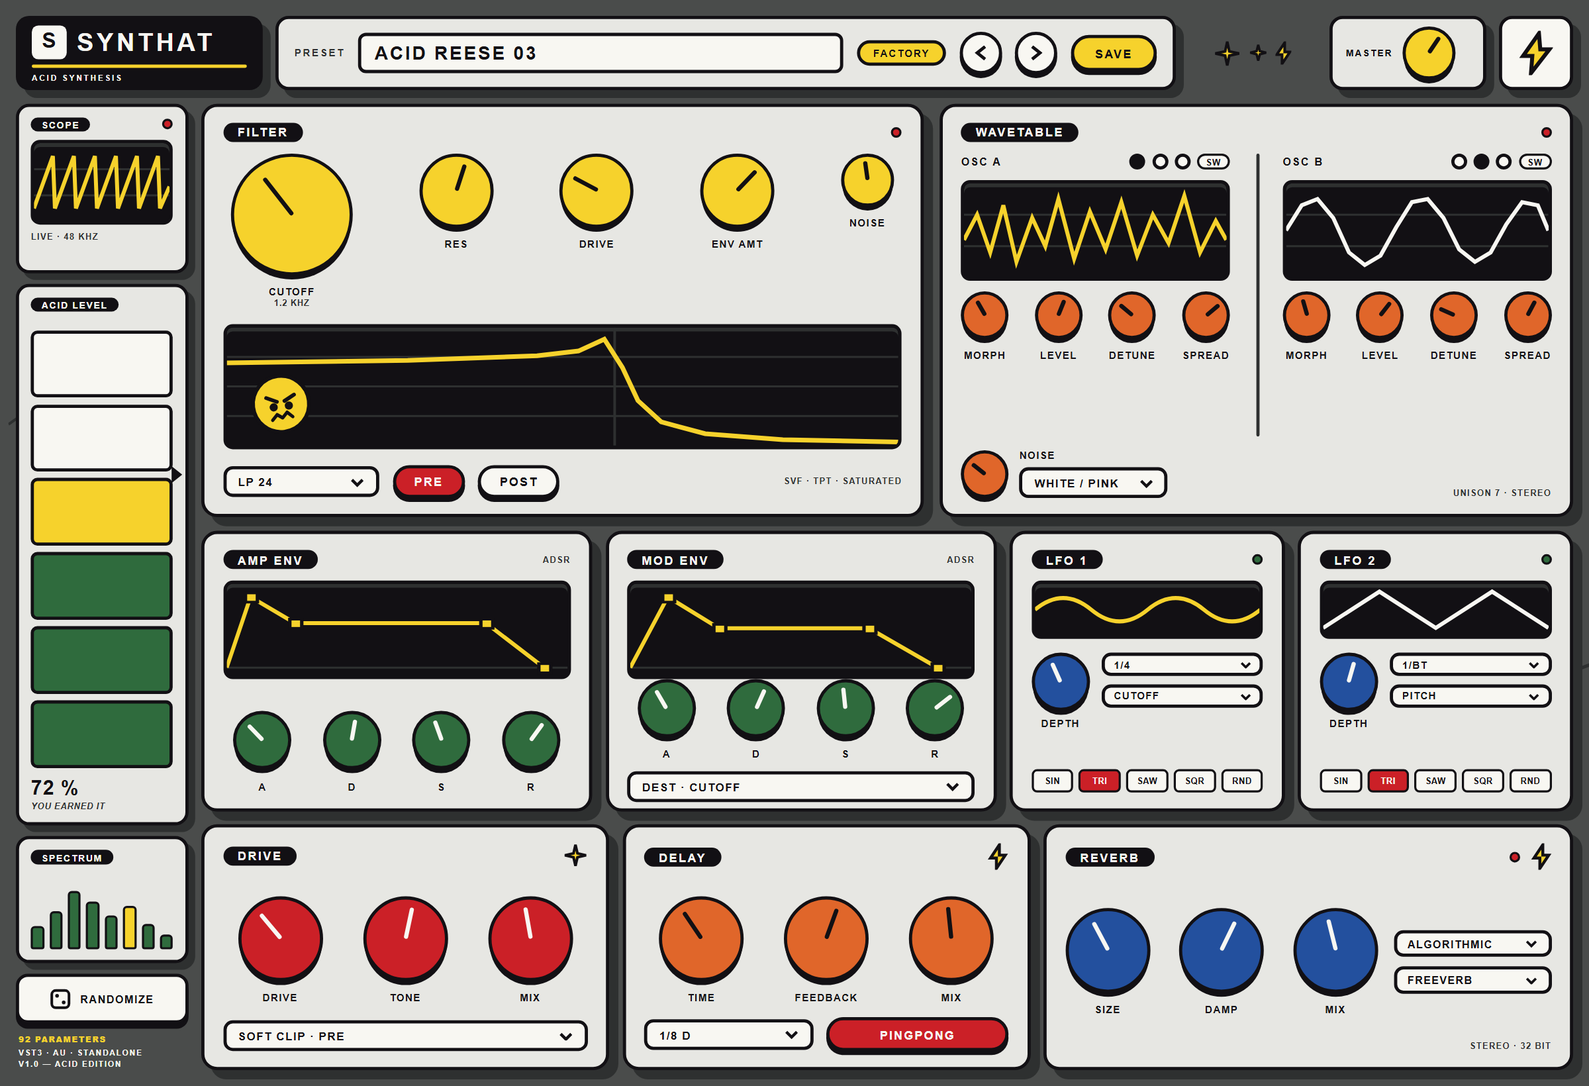
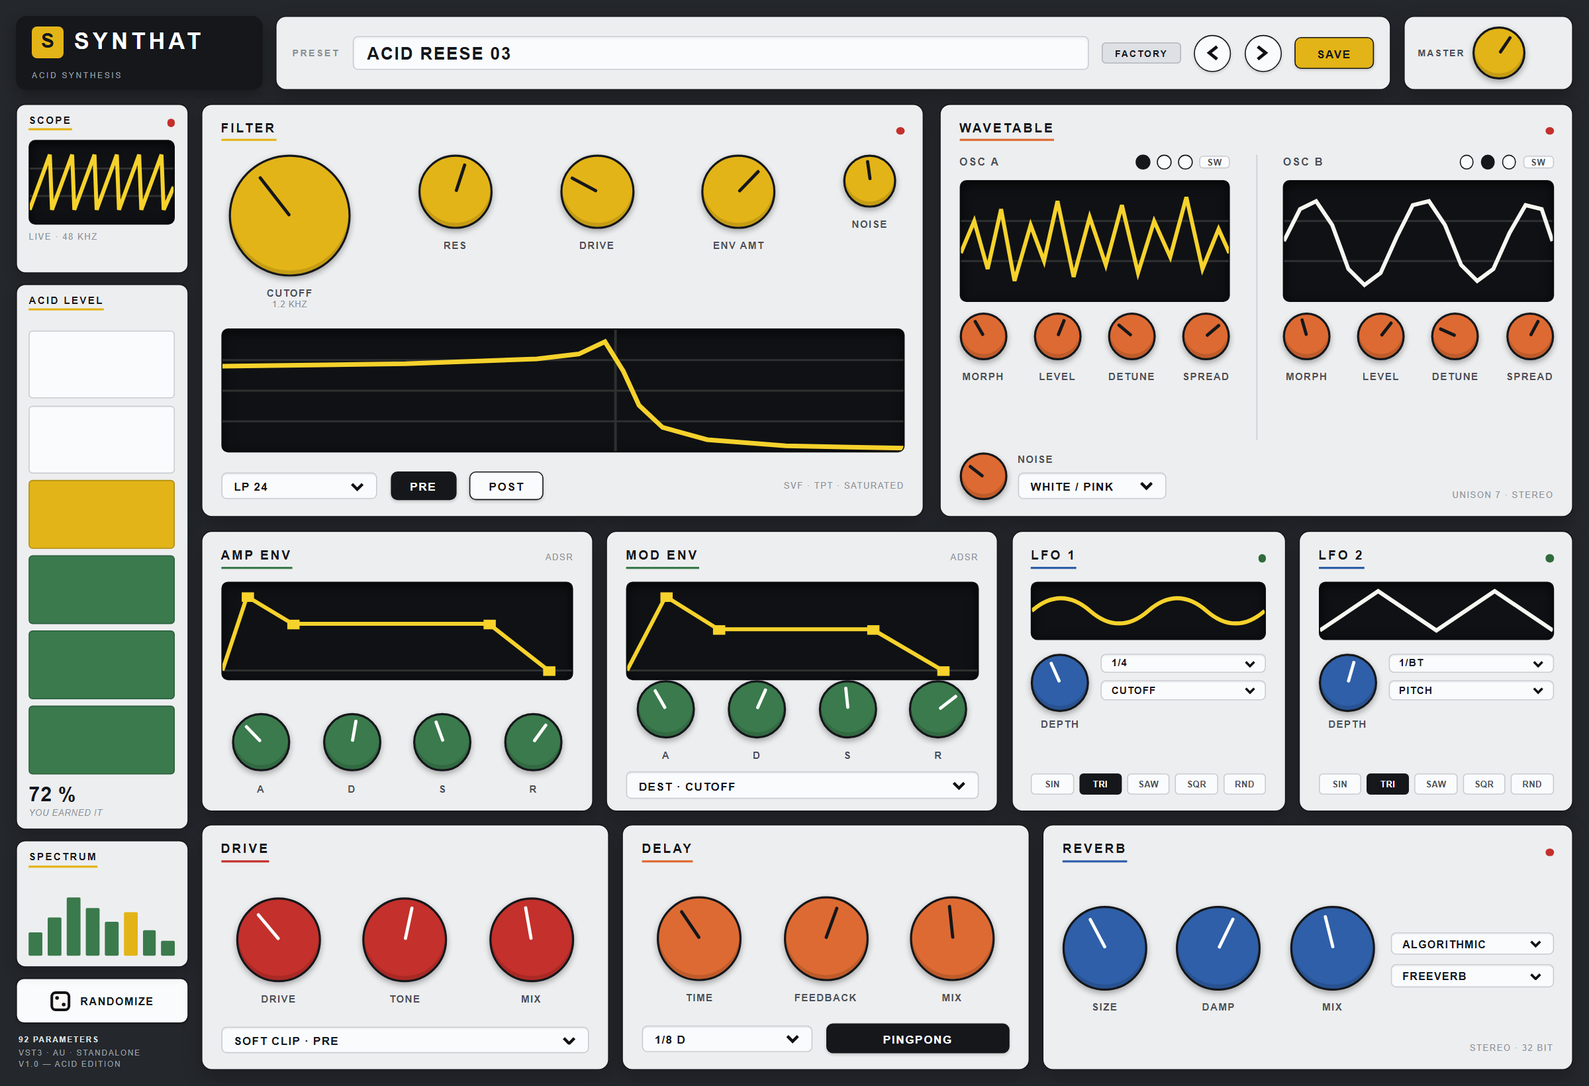
style: registro professionale al posto del cartoon
Contorni 1.5px, ombre morbide, fondo finestra scuro, titoli con sottolineatura
d'accento invece delle pillole nere, tipografia neutra e manopole con tacca
sottile. Rimossi adesivo, scintille, fulmini, crepe e stelline decorative.

🤖 Generated with Codebuff

Changed region(s): [[0.0, 0.0, 1.0, 1.0], [0.6562, 0.8085, 0.7812, 0.9329], [0.75, 0.9018, 0.7812, 0.9329]]

diff --git a/synthat/index.html b/synthat/index.html
@@ -5,25 +5,28 @@
 <title>SYNTHAT — ACID REESE 03</title>
 <style>
   :root{
-    --ink:#121014;
-    --paper:#F8F7F2;
-    --panel:#E7E7E3;
-    --asfalto:#4A4C4B;
-    --giunto:#2E3030;
-    --giallo:#F6D22C;
-    --rosso:#CB2027;
-    --verde:#2F6B3D;
-    --arancio:#E0662A;
-    --blu:#23509E;
+    --ink:#15171B;
+    --ink2:#4A4F57;
+    --panel:#EDEEEF;
+    --field:#FAFBFC;
+    --line:#C9CCD1;
+    --win:#24272C;
+    --paper:#FFFFFF;
+    --muted:#8B9098;
+    --gold:#E3B417;
+    --orange:#DD6A32;
+    --green:#3A7A4C;
+    --blue:#2E5FA8;
+    --red:#C4302B;
   }
   *{box-sizing:border-box;margin:0;padding:0}
-  html,body{width:1200px;height:820px;overflow:hidden;background:var(--asfalto)}
+  html,body{width:1200px;height:820px;overflow:hidden;background:var(--win)}
   body{
-    font-family:"Arial Narrow","Liberation Sans Narrow","Helvetica Neue",Arial,sans-serif;
-    font-weight:700;text-transform:uppercase;letter-spacing:.07em;
+    font-family:Inter,"Helvetica Neue",Arial,sans-serif;
+    font-weight:600;text-transform:uppercase;letter-spacing:.04em;
     font-size:9px;color:var(--ink);-webkit-font-smoothing:antialiased;
   }
-  .art{position:relative;width:1200px;height:820px;background:var(--asfalto);overflow:hidden}
+  .art{position:relative;width:1200px;height:820px;background:var(--win);overflow:hidden}
 
   /* ---------- struttura ---------- */
   .head{position:absolute;top:12px;left:12px;right:12px;height:56px;display:flex;align-items:stretch;gap:10px}
@@ -36,139 +39,133 @@
   .r3{height:186px;gap:10px}
 
   .panel{
-    background:var(--panel);border:3px solid var(--ink);border-radius:12px;
-    box-shadow:7px 7px 0 var(--giunto);
+    background:var(--panel);border:1.5px solid var(--ink);border-radius:8px;
+    box-shadow:0 5px 14px rgba(0,0,0,.26), inset 0 1px 0 rgba(255,255,255,.55);
     display:flex;flex-direction:column;padding:12px 14px;min-width:0;position:relative;
   }
   .card{
-    background:var(--panel);border:2.5px solid var(--ink);border-radius:10px;
-    box-shadow:5px 5px 0 var(--giunto);
+    background:var(--panel);border:1.5px solid var(--ink);border-radius:7px;
+    box-shadow:0 4px 10px rgba(0,0,0,.22);
     display:flex;flex-direction:column;padding:8px 9px;position:relative;min-height:0;
   }
 
-  .phead{display:flex;align-items:center;justify-content:space-between;gap:8px;margin-bottom:9px;flex:none}
-  .ptitle{background:var(--ink);color:var(--paper);border-radius:999px;padding:3px 11px 2px;font-size:9px;letter-spacing:.14em}
-  .led{width:8px;height:8px;border-radius:50%;background:var(--rosso);border:2px solid var(--ink);flex:none}
-  .note{font-size:6.5px;letter-spacing:.1em;color:var(--giunto)}
+  .phead{display:flex;align-items:center;justify-content:space-between;gap:8px;margin-bottom:10px;flex:none}
+  .ptitle{
+    font-size:9.5px;letter-spacing:.16em;color:var(--ink);
+    padding-bottom:3px;border-bottom:2px solid var(--acc,var(--gold));
+  }
+  .led{width:6px;height:6px;border-radius:50%;background:var(--red);flex:none}
+  .led.off{background:#B9BDC3}
+  .note{font-size:6.5px;letter-spacing:.12em;color:var(--muted);font-weight:500}
 
-  /* ---------- schermi incassati ---------- */
-  .screen{position:relative;background:var(--ink);border:2.5px solid var(--ink);border-radius:7px;
-          box-shadow:inset 0 3px 0 var(--giunto);overflow:hidden;flex:none}
+  /* ---------- colore per sezione ---------- */
+  .zone-orange{--acc:var(--orange)}
+  .zone-green{--acc:var(--green)}
+  .zone-blue{--acc:var(--blue)}
+  .zone-red{--acc:var(--red)}
+
+  /* ---------- schermi ---------- */
+  .screen{position:relative;background:#0F1114;border:1px solid #0A0C0E;border-radius:5px;
+          box-shadow:inset 0 2px 8px rgba(0,0,0,.75);overflow:hidden;flex:none}
   .screen svg{display:block;width:100%;height:100%}
-  .screen svg.sticker{width:50px;height:50px}
 
   /* ---------- manopole ---------- */
-  .knob{position:relative;border-radius:50%;background:var(--giallo);border:3px solid var(--ink);flex:none;
-        box-shadow:0 4px 0 -1px var(--ink)}
-  .notch{position:absolute;left:50%;bottom:50%;width:3px;height:40%;margin-left:-1.5px;background:var(--ink);
-         border-radius:2px;transform-origin:50% 100%;transform:rotate(var(--a,-40deg))}
+  .knob{position:relative;border-radius:50%;background:var(--acc,var(--gold));
+        border:2px solid var(--ink);flex:none;
+        box-shadow:0 2px 5px rgba(0,0,0,.32), inset 0 -3px 0 rgba(0,0,0,.13)}
+  .notch{position:absolute;left:50%;bottom:50%;width:2px;height:42%;margin-left:-1px;background:var(--ink);
+         border-radius:1px;transform-origin:50% 100%;transform:rotate(var(--a,-40deg))}
+  .zone-green .notch,.zone-blue .notch,.zone-red .notch{background:#fff}
   .k92{width:92px;height:92px}.k64{width:64px;height:64px}.k56{width:56px;height:56px}
   .k48{width:48px;height:48px}.k44{width:44px;height:44px}.k40{width:40px;height:40px}
   .k36{width:36px;height:36px}.k32{width:32px;height:32px}
   .knobwrap{display:flex;flex-direction:column;align-items:center;gap:9px}
-  /* colore manopole per sezione */
-  .zone-orange .knob{background:var(--arancio)}
-  .zone-green .knob{background:var(--verde)}
-  .zone-blue .knob{background:var(--blu)}
-  .zone-red .knob{background:var(--rosso)}
-  .zone-green .notch,.zone-blue .notch,.zone-red .notch{background:var(--paper)}
-  .klab{font-size:7.5px;letter-spacing:.1em;text-align:center;line-height:1.1}
-  .kval{font-size:6.5px;letter-spacing:.06em;color:var(--giunto);margin-top:1px}
+  .klab{font-size:7.5px;letter-spacing:.1em;text-align:center;line-height:1.1;color:var(--ink2)}
+  .kval{font-size:6.5px;letter-spacing:.06em;color:var(--muted);margin-top:1px;font-weight:500}
 
   /* ---------- controlli ---------- */
-  .sel{display:flex;align-items:center;justify-content:space-between;gap:8px;background:var(--paper);
-       border:2.5px solid var(--ink);border-radius:7px;padding:5px 9px 4px;font-size:8.5px;letter-spacing:.09em}
+  .sel{display:flex;align-items:center;justify-content:space-between;gap:8px;background:var(--field);
+       border:1px solid var(--line);border-radius:4px;padding:5px 9px 4px;font-size:8.5px;letter-spacing:.08em;
+       box-shadow:inset 0 1px 0 rgba(0,0,0,.05)}
   .sel svg{flex:none}
-  .btn{display:flex;align-items:center;justify-content:center;gap:6px;background:var(--paper);
-       border:2.5px solid var(--ink);border-radius:999px;padding:6px 14px 5px;font-size:9px;
-       letter-spacing:.12em;box-shadow:0 3px 0 var(--ink);font-weight:700}
-  .btn.on{background:var(--rosso);color:var(--paper)}
-  .btn.gold{background:var(--giallo)}
+  .btn{display:flex;align-items:center;justify-content:center;gap:6px;background:var(--field);
+       border:1.5px solid var(--ink);border-radius:5px;padding:6px 14px 5px;font-size:8.5px;
+       letter-spacing:.1em;font-weight:600;box-shadow:0 1px 2px rgba(0,0,0,.16)}
+  .btn.on{background:var(--ink);color:var(--paper);border-color:var(--ink)}
+  .btn.gold{background:var(--gold);border-color:var(--ink);color:var(--ink)}
   .wbtn{flex:1;text-align:center;font-size:6.5px;letter-spacing:.04em;padding:4px 0 3px;
-        border:2px solid var(--ink);border-radius:4px;background:var(--paper)}
-  .wbtn.on{background:var(--rosso);color:var(--paper)}
-  .tog{width:12px;height:12px;border-radius:50%;border:2.5px solid var(--ink);background:var(--paper)}
+        border:1px solid var(--line);border-radius:3px;background:var(--field);color:var(--ink2)}
+  .wbtn.on{background:var(--ink);color:var(--paper);border-color:var(--ink)}
+  .tog{width:11px;height:11px;border-radius:50%;border:1.5px solid var(--ink);background:var(--field)}
   .tog.on{background:var(--ink)}
-  .sw{font-size:6.5px;letter-spacing:.08em;border:2px solid var(--ink);border-radius:999px;padding:1px 5px 0;background:var(--paper)}
+  .sw{font-size:6.5px;letter-spacing:.08em;border:1px solid var(--line);border-radius:3px;
+      padding:1px 5px 0;background:var(--field);color:var(--ink2)}
   .row-c{display:flex;align-items:center;gap:8px}
 
   /* ---------- header ---------- */
-  .brand{background:var(--ink);border-radius:10px;box-shadow:6px 6px 0 var(--giunto);
-         padding:7px 12px 6px;display:flex;flex-direction:column;justify-content:center;gap:4px;width:186px;flex:none}
+  .brand{background:var(--ink);border-radius:8px;box-shadow:0 4px 10px rgba(0,0,0,.3);
+         padding:8px 12px 7px;display:flex;flex-direction:column;justify-content:center;gap:5px;width:186px;flex:none}
   .brandrow{display:flex;align-items:center;gap:8px}
-  .sbox{width:26px;height:26px;background:var(--paper);border-radius:5px;display:flex;align-items:center;
-        justify-content:center;font-size:16px;letter-spacing:0;color:var(--ink);padding-bottom:2px}
-  .brandtxt{color:var(--paper);font-size:19px;letter-spacing:.12em;line-height:1}
-  .brandrule{height:3px;background:var(--giallo);border-radius:2px}
-  .brandsub{color:var(--paper);font-size:6px;letter-spacing:.22em;opacity:1}
+  .sbox{width:24px;height:24px;background:var(--gold);border-radius:4px;display:flex;align-items:center;
+        justify-content:center;font-size:15px;letter-spacing:0;color:var(--ink);padding-bottom:2px}
+  .brandtxt{color:var(--paper);font-size:17px;letter-spacing:.16em;line-height:1}
+  .brandrule{height:2px;background:var(--gold);border-radius:1px}
+  .brandsub{color:#9AA0A8;font-size:6px;letter-spacing:.22em;font-weight:500}
 
-  .presetbar{flex:1;background:var(--panel);border:3px solid var(--ink);border-radius:10px;
-             box-shadow:6px 6px 0 var(--giunto);display:flex;align-items:center;gap:10px;padding:0 12px;min-width:0}
-  .plabel{font-size:7.5px;letter-spacing:.18em;color:var(--giunto)}
-  .pfield{flex:1;background:var(--paper);border:2.5px solid var(--ink);border-radius:6px;padding:5px 10px 4px;
-          font-size:14px;letter-spacing:.1em;min-width:0;overflow:hidden;white-space:nowrap}
-  .ptag{background:var(--giallo);border:2.5px solid var(--ink);border-radius:999px;padding:4px 10px 3px;
-        font-size:7.5px;letter-spacing:.14em;flex:none}
-  .circ{width:32px;height:32px;border-radius:50%;background:var(--paper);border:2.5px solid var(--ink);
-        display:flex;align-items:center;justify-content:center;flex:none;box-shadow:0 3px 0 var(--ink)}
-  .sparks{width:96px;flex:none;display:flex;align-items:center;justify-content:center;gap:6px}
-
-  .mastercard{width:118px;flex:none;background:var(--panel);border:3px solid var(--ink);border-radius:10px;
-              box-shadow:6px 6px 0 var(--giunto);display:flex;align-items:center;gap:9px;padding:0 10px}
-  .mlabel{font-size:7px;letter-spacing:.14em;line-height:1.2;color:var(--ink);width:34px}
-  .boltcard{width:56px;flex:none;background:var(--paper);border:3px solid var(--ink);border-radius:10px;
-            box-shadow:6px 6px 0 var(--giunto);display:flex;align-items:center;justify-content:center}
+  .presetbar{flex:1;background:var(--panel);border:1.5px solid var(--ink);border-radius:8px;
+             box-shadow:0 5px 14px rgba(0,0,0,.26);display:flex;align-items:center;gap:10px;padding:0 12px;min-width:0}
+  .plabel{font-size:7px;letter-spacing:.18em;color:var(--muted)}
+  .pfield{flex:1;background:var(--field);border:1px solid var(--line);border-radius:4px;padding:5px 10px 4px;
+          font-size:13px;letter-spacing:.07em;min-width:0;overflow:hidden;white-space:nowrap;
+          box-shadow:inset 0 1px 2px rgba(0,0,0,.06)}
+  .ptag{background:#DDE0E4;border:1px solid #B4B8BE;border-radius:3px;padding:4px 9px 3px;
+        font-size:7px;letter-spacing:.14em;flex:none;color:var(--ink)}
+  .circ{width:28px;height:28px;border-radius:50%;background:var(--field);border:1.5px solid var(--ink);
+        display:flex;align-items:center;justify-content:center;flex:none;box-shadow:0 1px 2px rgba(0,0,0,.16)}
+  .mastercard{width:128px;flex:none;background:var(--panel);border:1.5px solid var(--ink);border-radius:8px;
+              box-shadow:0 5px 14px rgba(0,0,0,.26);display:flex;align-items:center;gap:9px;padding:0 10px}
+  .mlabel{font-size:7px;letter-spacing:.14em;line-height:1.2;color:var(--ink2);width:32px}
 
   /* ---------- rail ---------- */
-  .railhead{display:flex;align-items:center;justify-content:space-between;margin-bottom:6px;flex:none}
-  .railpill{background:var(--ink);color:var(--paper);border-radius:999px;padding:2px 8px 1px;font-size:7px;letter-spacing:.12em}
+  .railhead{display:flex;align-items:center;justify-content:space-between;margin-bottom:7px;flex:none}
+  .railpill{font-size:7.5px;letter-spacing:.16em;color:var(--ink);padding-bottom:2px;
+            border-bottom:2px solid var(--acc,var(--gold))}
   .acidcard{flex:1;display:flex;flex-direction:column;gap:8px;min-height:0}
   .segs{flex:1;display:flex;flex-direction:column;gap:5px;min-height:0}
-  .seg{border:2.5px solid var(--ink);border-radius:5px;background:var(--paper);flex:1}
-  .seg.on{background:var(--verde)}
-  .seg.hot{background:var(--giallo)}
+  .seg{border:1px solid var(--line);border-radius:3px;background:var(--field);flex:1}
+  .seg.on{background:var(--green);border-color:#2C6040}
+  .seg.hot{background:var(--gold);border-color:#B08C10}
   .acidrow{display:flex;gap:8px;min-height:0;flex:1;position:relative}
   .acidcol{flex:1;display:flex;flex-direction:column;min-height:0}
-  .pointer{position:absolute;right:-7px;top:33.3%;margin-top:-7px;width:0;height:0;border-left:8px solid var(--ink);
-           border-top:7px solid transparent;border-bottom:7px solid transparent}
-  .pct{font-size:15px;letter-spacing:.04em;line-height:1}
-  .pctsub{font-size:6.5px;letter-spacing:.06em;color:var(--giunto);margin-top:3px;font-style:italic}
+  .pointer{position:absolute;right:-3px;top:33.3%;margin-top:-5px;width:0;height:0;border-left:6px solid var(--ink);
+           border-top:5px solid transparent;border-bottom:5px solid transparent}
+  .pct{font-size:15px;letter-spacing:.03em;line-height:1}
+  .pctsub{font-size:6.5px;letter-spacing:.06em;color:var(--muted);margin-top:3px;font-style:italic;font-weight:500}
   .bars{display:flex;align-items:flex-end;gap:4px;height:44px;margin-top:auto}
-  .bar{flex:1;background:var(--verde);border:2px solid var(--ink);border-radius:3px 3px 2px 2px}
-  .bar.hot{background:var(--giallo)}
-  .randbtn{width:100%;background:var(--paper);border:2.5px solid var(--ink);border-radius:9px;
-           box-shadow:0 4px 0 var(--ink);display:flex;align-items:center;justify-content:center;gap:7px;
+  .bar{flex:1;background:var(--green);border-radius:1px}
+  .bar.hot{background:var(--gold)}
+  .randbtn{width:100%;background:var(--field);border:1.5px solid var(--ink);border-radius:6px;
+           box-shadow:0 1px 2px rgba(0,0,0,.16);display:flex;align-items:center;justify-content:center;gap:7px;
            padding:9px 0 8px;font-size:8px;letter-spacing:.1em;flex:none}
-  .sig{font-size:6px;letter-spacing:.14em;color:var(--paper);line-height:1.5;flex:none;padding-left:2px}
-  .sig b{color:var(--giallo)}
+  .sig{font-size:6px;letter-spacing:.14em;color:#9AA0A8;line-height:1.5;flex:none;padding-left:2px;font-weight:500}
+  .sig b{color:#DDE1E6}
 
   /* ---------- wavetable ---------- */
   .oscs{display:flex;gap:20px;flex:1;min-height:0}
   .osc{flex:1;display:flex;flex-direction:column;gap:8px;min-width:0;position:relative}
   .osc + .osc{padding-left:20px}
-  .osc + .osc::before{content:"";position:absolute;left:0;top:0;bottom:0;width:2.5px;background:var(--giunto);border-radius:2px}
+  .osc + .osc::before{content:"";position:absolute;left:0;top:0;bottom:0;width:1px;background:var(--line)}
   .oschead{display:flex;align-items:center;justify-content:space-between}
-  .oscname{font-size:8px;letter-spacing:.14em}
+  .oscname{font-size:8px;letter-spacing:.14em;color:var(--ink2)}
   .oscKnobs{display:flex;justify-content:space-between;align-items:flex-start;gap:4px}
   .wtfoot{display:flex;align-items:flex-end;justify-content:space-between;gap:10px;margin-top:10px;flex:none}
 
   /* ---------- misc ---------- */
   .spacer{flex:1}
-  .mks{position:absolute;pointer-events:none}
 </style>
 </head>
 <body>
 <div class="art">
-
-  <!-- segni d'usura nel fondo finestra -->
-  <svg class="mks" style="left:6px;top:250px" width="120" height="220" viewBox="0 0 120 220">
-    <path d="M18 0 L14 60 L22 84 L16 150 L20 220" fill="none" stroke="#2E3030" stroke-width="2.5"/>
-    <path d="M14 60 L0 70 M22 84 L34 96" fill="none" stroke="#2E3030" stroke-width="2"/>
-  </svg>
-  <svg class="mks" style="right:0;bottom:180px" width="90" height="160" viewBox="0 0 90 160">
-    <path d="M90 22 L58 34 L46 74 L12 92" fill="none" stroke="#2E3030" stroke-width="2.5"/>
-    <path d="M58 34 L64 56 M46 74 L26 70" fill="none" stroke="#2E3030" stroke-width="2"/>
-  </svg>
 
   <!-- ================= HEADER ================= -->
   <div class="head">
@@ -194,22 +191,11 @@
       <div class="btn gold" style="padding:7px 16px 6px">SAVE</div>
     </div>
 
-    <div class="sparks">
-      <svg width="20" height="20" viewBox="0 0 20 20"><path d="M10 1 L11.6 8.4 L19 10 L11.6 11.6 L10 19 L8.4 11.6 L1 10 L8.4 8.4 Z" fill="#F6D22C" stroke="#121014" stroke-width="2"/></svg>
-      <svg width="14" height="14" viewBox="0 0 14 14"><path d="M7 1 L8.2 5.8 L13 7 L8.2 8.2 L7 13 L5.8 8.2 L1 7 L5.8 5.8 Z" fill="#F6D22C" stroke="#121014" stroke-width="1.8"/></svg>
-      <svg width="12" height="18" viewBox="0 0 12 18"><path d="M7 1 L1 10 h4 L5 17 L11 8 H7 Z" fill="#F6D22C" stroke="#121014" stroke-width="2"/></svg>
-    </div>
-
     <div class="mastercard">
       <div class="mlabel">MASTER</div>
       <div class="knob k40" style="--a:34deg"><i class="notch"></i></div>
     </div>
 
-    <div class="boltcard">
-      <svg width="26" height="34" viewBox="0 0 26 34">
-        <path d="M15 2 L3 19 h7 L9 32 L23 14 h-7 Z" fill="#F6D22C" stroke="#121014" stroke-width="3" stroke-linejoin="miter"/>
-      </svg>
-    </div>
   </div>
 
   <!-- ================= MAIN ================= -->
@@ -242,7 +228,6 @@
               <div class="seg on"></div>
             </div>
           </div>
-          <div class="pointer"></div>
         </div>
         <div>
           <div class="pct">72 %</div>
@@ -310,12 +295,6 @@
               <polyline points="0,30 140,28 240,24 272,20 292,10 306,34 318,62 336,80 370,90 430,95 520,97"
                 fill="none" stroke="#F6D22C" stroke-width="3.5" vector-effect="non-scaling-stroke" stroke-linejoin="miter"/>
             </svg>
-            <svg class="sticker" style="position:absolute;left:16px;bottom:7px;transform:rotate(-7deg)" width="50" height="50" viewBox="0 0 52 52">
-              <circle cx="26" cy="26" r="22" fill="#F6D22C" stroke="#121014" stroke-width="3"/>
-              <path d="M15 20 L23 24 M37 20 L29 24" stroke="#121014" stroke-width="3" stroke-linecap="round"/>
-              <circle cx="20" cy="28" r="3.2" fill="#121014"/><circle cx="32" cy="28" r="3.2" fill="#121014"/>
-              <path d="M18 38 L22 34 L26 37 L30 33 L34 37" fill="none" stroke="#121014" stroke-width="2.6" stroke-linecap="round" stroke-linejoin="round"/>
-            </svg>
           </div>
 
           <div class="spacer"></div>
@@ -342,7 +321,7 @@
                   <span class="tog on"></span><span class="tog"></span><span class="tog"></span><span class="sw">SW</span>
                 </div>
               </div>
-              <div class="screen" style="height:76px">
+              <div class="screen" style="height:92px">
                 <svg viewBox="0 0 200 60" preserveAspectRatio="none">
                   <path d="M0 20 H200 M0 40 H200" stroke="#2E3030" stroke-width="1.5" vector-effect="non-scaling-stroke"/>
                   <polyline points="0,36 10,20 20,44 30,14 40,50 52,22 62,40 72,10 84,48 96,18 108,42 120,12 132,46 144,20 156,38 168,8 180,44 192,24 200,36"
@@ -364,7 +343,7 @@
                   <span class="tog"></span><span class="tog on"></span><span class="tog"></span><span class="sw">SW</span>
                 </div>
               </div>
-              <div class="screen" style="height:76px">
+              <div class="screen" style="height:92px">
                 <svg viewBox="0 0 200 60" preserveAspectRatio="none">
                   <path d="M0 20 H200 M0 40 H200" stroke="#2E3030" stroke-width="1.5" vector-effect="non-scaling-stroke"/>
                   <polyline points="0,30 12,14 24,10 36,22 48,44 60,52 72,46 84,28 96,12 108,10 120,22 132,42 144,50 156,44 168,26 180,12 192,14 200,30"
@@ -406,7 +385,7 @@
               <path d="M0 64 H200" stroke="#2E3030" stroke-width="1.5" vector-effect="non-scaling-stroke"/>
               <polyline points="0,64 14,10 40,30 152,30 186,64"
                 fill="none" stroke="#F6D22C" stroke-width="3" vector-effect="non-scaling-stroke" stroke-linejoin="miter"/>
-              <g fill="#F6D22C" stroke="#121014" stroke-width="2">
+              <g fill="#F6D22C">
                 <rect x="11" y="7" width="7" height="7"/><rect x="37" y="27" width="7" height="7"/>
                 <rect x="149" y="27" width="7" height="7"/><rect x="183" y="61" width="7" height="7"/>
               </g>
@@ -429,7 +408,7 @@
               <path d="M0 64 H200" stroke="#2E3030" stroke-width="1.5" vector-effect="non-scaling-stroke"/>
               <polyline points="0,64 22,10 52,34 140,34 180,64"
                 fill="none" stroke="#F6D22C" stroke-width="3" vector-effect="non-scaling-stroke" stroke-linejoin="miter"/>
-              <g fill="#F6D22C" stroke="#121014" stroke-width="2">
+              <g fill="#F6D22C">
                 <rect x="19" y="7" width="7" height="7"/><rect x="49" y="31" width="7" height="7"/>
                 <rect x="137" y="31" width="7" height="7"/><rect x="177" y="61" width="7" height="7"/>
               </g>
@@ -504,7 +483,6 @@
         <!-- DRIVE -->
         <div class="panel zone-red" style="flex:1.5">
           <div class="phead"><span class="ptitle">DRIVE</span>
-            <svg width="18" height="18" viewBox="0 0 18 18"><path d="M9 1 L10.5 7.5 L17 9 L10.5 10.5 L9 17 L7.5 10.5 L1 9 L7.5 7.5 Z" fill="#F6D22C" stroke="#121014" stroke-width="2"/></svg>
           </div>
           <div class="spacer"></div>
           <div class="row-c" style="justify-content:space-around">
@@ -521,7 +499,6 @@
         <!-- DELAY -->
         <div class="panel zone-orange" style="flex:1.5">
           <div class="phead"><span class="ptitle">DELAY</span>
-            <svg width="16" height="20" viewBox="0 0 12 18"><path d="M7 1 L1 10 h4 L5 17 L11 8 H7 Z" fill="#F6D22C" stroke="#121014" stroke-width="2"/></svg>
           </div>
           <div class="spacer"></div>
           <div class="row-c" style="justify-content:space-around">
@@ -541,10 +518,7 @@
         <!-- REVERB -->
         <div class="panel zone-blue" style="flex:2">
           <div class="phead"><span class="ptitle">REVERB</span>
-            <div class="row-c" style="gap:8px">
-              <span class="led"></span>
-              <svg width="16" height="20" viewBox="0 0 12 18"><path d="M7 1 L1 10 h4 L5 17 L11 8 H7 Z" fill="#F6D22C" stroke="#121014" stroke-width="2"/></svg>
-            </div>
+            <span class="led"></span>
           </div>
           <div class="spacer"></div>
           <div class="row-c" style="justify-content:space-between;align-items:center;gap:12px">
